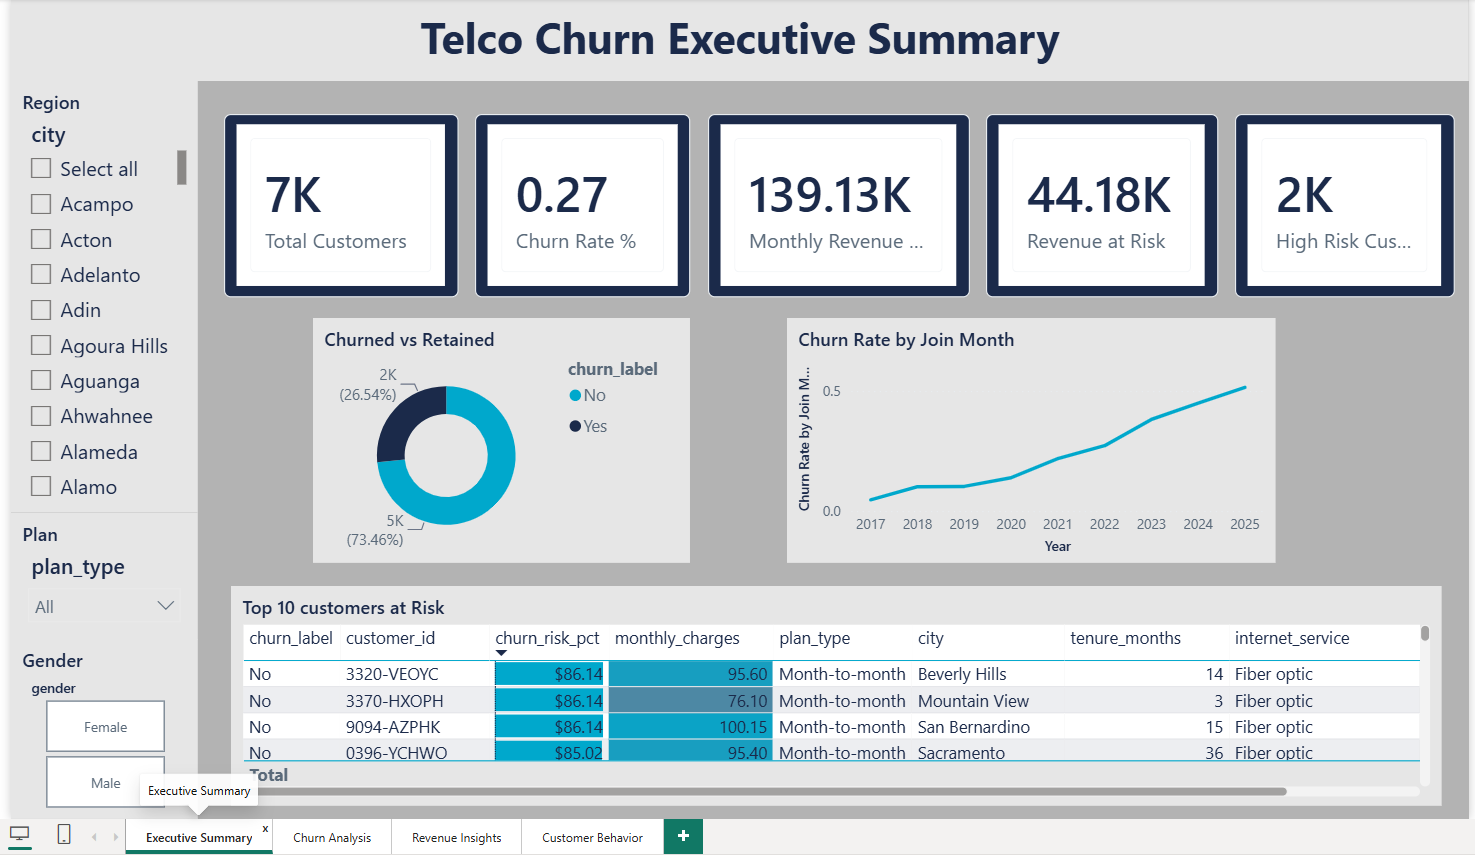
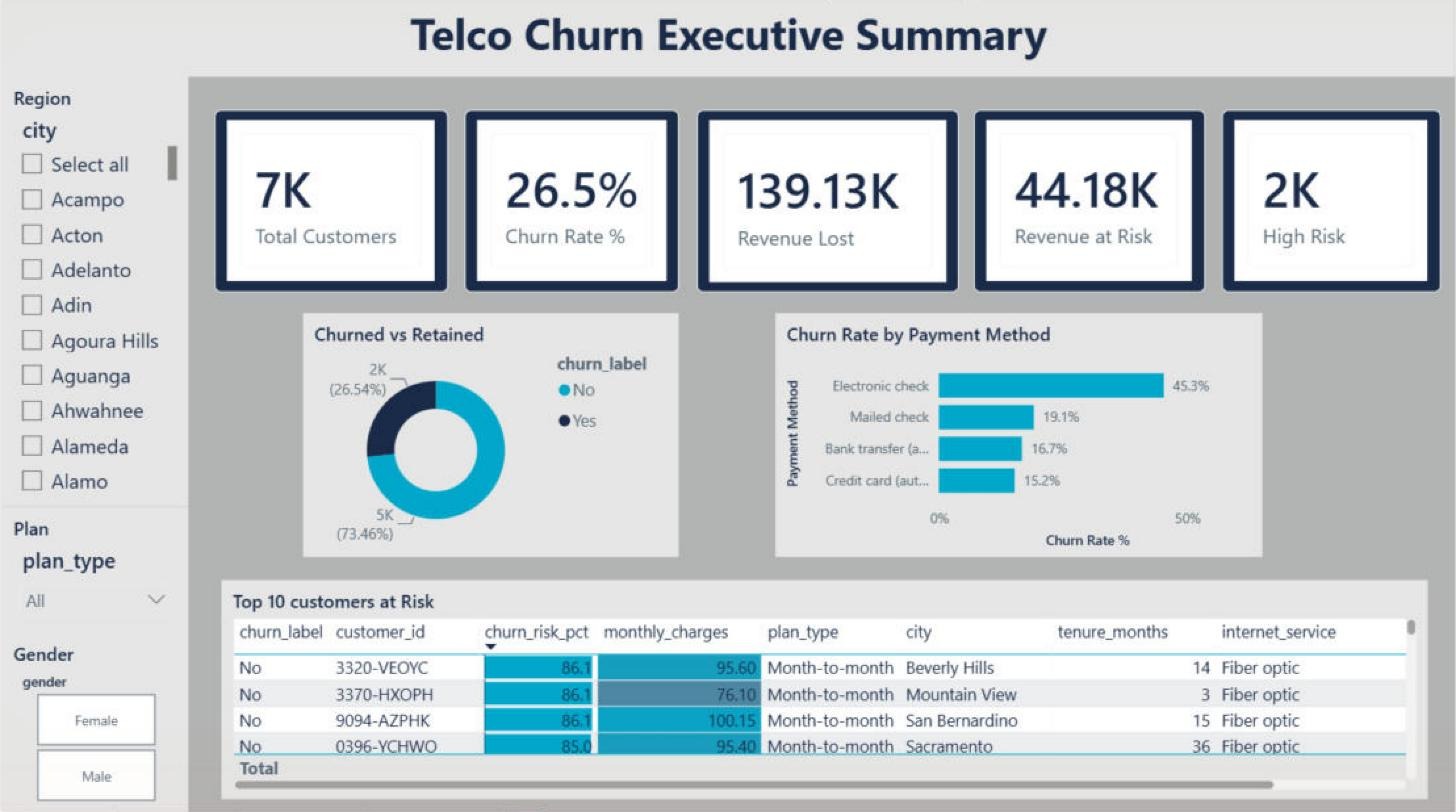
Update Power BI dashboard screenshots and ARPU measure
- Replace all four dashboard screenshots with the corrected report:
  churn rate shown as a percentage, churn risk on a 0-100 scale,
  'Revenue Lost' card label, and two-decimal ARPU values.
- Executive Summary now shows churn rate by payment method, and
  Revenue Insights shows revenue versus churn by internet service,
  replacing charts based on derived join dates.
- Round ARPU to two decimals in dax_measures.dax to match the report.

Claude-Session: https://claude.ai/code/session_01KCEwiPsdB2BsmXCcvKQLgA

diff --git a/README.md b/README.md
@@ -18,7 +18,7 @@ Full methodology and results: [PROJECT_RESEARCH_REPORT.md](PROJECT_RESEARCH_REPO
 
 ### Power BI dashboard
 
-**Executive Summary:** headline KPIs (customers, churn rate, revenue lost to churn, revenue at risk from current high-risk customers) and the ten active customers with the highest predicted churn risk.
+**Executive Summary:** headline KPIs (customers, churn rate, revenue lost to churn, revenue at risk from current high-risk customers), churn rate by payment method (electronic check customers churn at 45.3%), and the ten active customers with the highest predicted churn risk.
 
 ![Executive Summary dashboard](powerbi/screenshots/01_executive_summary.png)
 
@@ -26,7 +26,7 @@ Full methodology and results: [PROJECT_RESEARCH_REPORT.md](PROJECT_RESEARCH_REPO
 
 ![Churn Analysis dashboard](powerbi/screenshots/02_churn_analysis.png)
 
-**Revenue Insights:** average revenue per user (ARPU), monthly revenue lost by contract type, and churn rate by contract type and age segment.
+**Revenue Insights:** average revenue per user (ARPU), monthly revenue lost by contract type, revenue versus churn by internet service (fiber brings in the most revenue but churns at 41.9%), and ARPU and churn rate by contract type and age group.
 
 ![Revenue Insights dashboard](powerbi/screenshots/03_revenue_insights.png)
 
